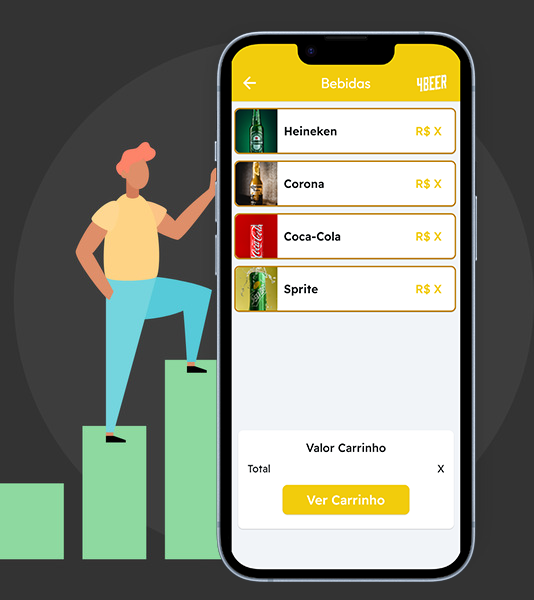
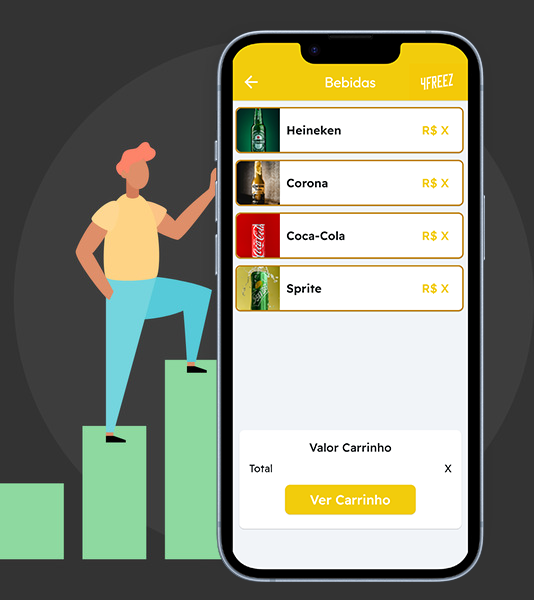
ajustes_necessarios

diff --git a/index.html b/index.html
@@ -451,7 +451,7 @@
 
         <!--Tik Tok-->
 
-        <a href="https://www.tiktok.com/@4beer7?_t=8hvyKQNb3rS&_r=1" target="_blank" rel="noreferrer">
+        <a href="https://www.tiktok.com/@4freezstore" target="_blank" rel="noreferrer">
           <div class="rounded-full bg-gray-400 p-3">
             <div class="h-6 w-6">
               <svg xmlns="http://www.w3.org/2000/svg" x="0px" y="0px" width="40" height="50" viewBox="0 0 448 512">
